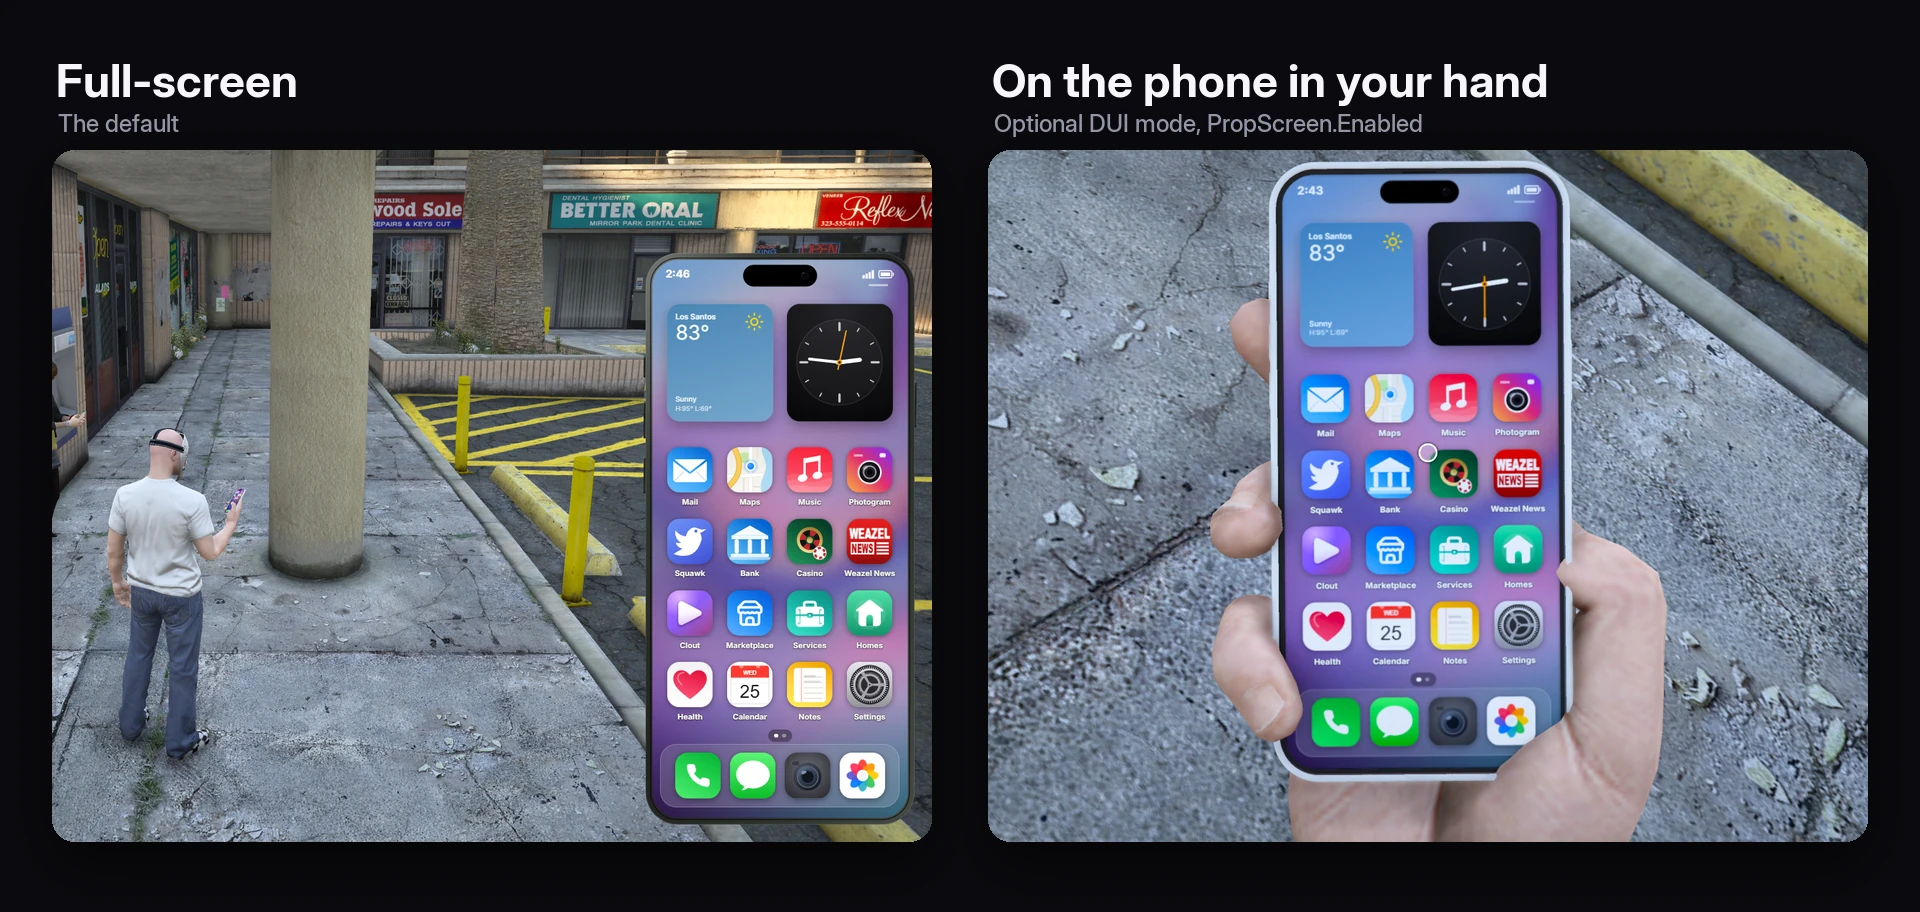
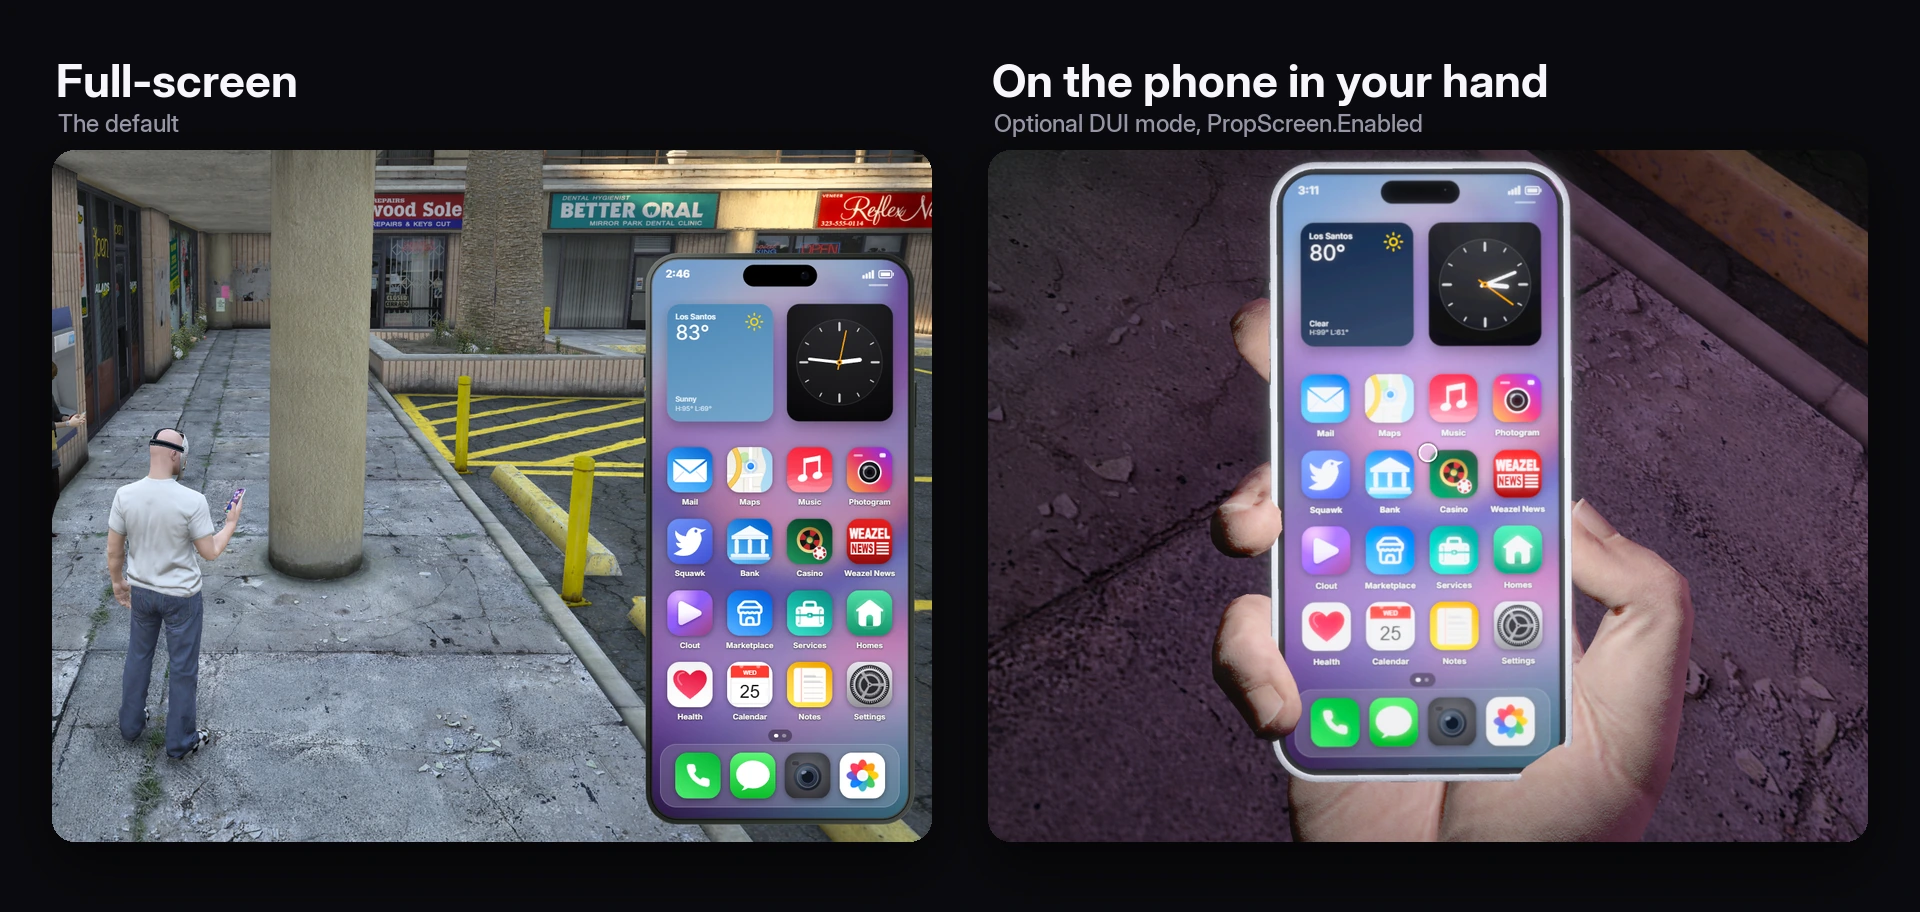
docs: describe the DUI option as it ships and retake its in-game picture

diff --git a/README.md b/README.md
@@ -244,10 +244,11 @@ The inventory has to be able to keep data on a single item, which every inventor
 
 ### DUI phone option (UI on the held prop)
 
-Optional and **off by default**. With `PropScreen.Enabled = true` in `configs/phone.lua`, the phone UI is drawn on the screen of the phone prop in the player's hand instead of the full-screen overlay: the live UI runs in a DUI whose image replaces the prop's screen texture, a close-up camera eases in on the phone, and the mouse cursor is mapped onto the tilted screen.
+Optional and **off by default**. With `PropScreen.Enabled = true` in `configs/phone.lua`, the phone UI is drawn on the screen of the phone in the player's hand instead of the full-screen overlay: the live UI runs in a DUI whose image replaces the prop's screen texture, a close-up camera eases in on the phone, and the mouse becomes a finger on the screen.
 
-- **Enable:** set `PropScreen.Enabled = true` and stream the prop art below. Model, texture dictionary, texture name, DUI resolution, screen rectangle, camera and foldable behaviour are all in the `PropScreen` block. No UI rebuild is needed: `web/dui/phone.html` boots the normal `web/build` bundle.
-- **Art required:** a phone model (default `sd_phone_dui`) whose screen is its own material using a texture (default `sd_phone_screen`) from a **standalone** streamed `.ytd` (default `sd_phone_dui`) that the model's `.ytyp` archetype names as its texture dictionary. `AddReplaceTexture` cannot swap a texture embedded in the `.ydr`, which is how `sd-phone-props` ships, so its models cannot be used as they are. If the model or `.ytd` is missing, a warning is printed in F8 once and the phone stays full-screen.
-- **Controls:** left click taps, the wheel scrolls, right click or Backspace goes back, Enter unlocks, ESC puts the phone away. Text fields open the game's on-screen keyboard, because a DUI cannot receive key presses.
+- **Enable:** set `PropScreen.Enabled = true`. [sd-phone-props](https://github.com/Samuels-Development/sd-phone-props) streams everything it needs: a live-screen model for every colour, design and logo, and the `sd_phone_dui` texture dictionary whose screen texture is swapped. No UI rebuild is needed: `web/dui/phone.html` boots the normal `web/build` bundle. If the models are missing, a warning is printed in F8 once and the phone stays full-screen.
+- **Controls:** left click taps, the wheel scrolls, right click or Backspace goes back, Enter unlocks, ESC puts the phone away. Tap a text field and type straight onto the screen; tap anywhere else or press Escape to stop typing.
+- **Camera and hold:** the camera follows the phone but keeps its own heading, so the world behind it stands still while the hand moves (`CamSteady`). The phone is held in a grip made for this view (`stream/sd_phone@hold.ycd`), the thumb along the edge rather than across the glass. `CamDistance`, `CamFov`, `CamRise`, `HoldAnim`, `HandOffset` and `HandRot` adjust both.
+- **Screen:** the picture is corrected for the game's tone mapping so it does not look washed out, dims after dark (`Brightness`), and is drawn at the size the phone has on each player's monitor so small text stays sharp (`AutoResolution`).
 - **Falls back to full-screen:** in a vehicle, for the Camera app and video calls (the phone reopens full-screen; tap the app again), and when a foldable is unfolded (unless `PropScreen.Foldable = true`, which letterboxes the wide UI onto the portrait screen).
-- **Known limits:** on foot only; one held model for every frame colour (other players still see the normal coloured prop); the DUI runs a second copy of the UI that mirrors every push, so it costs extra memory/CPU while enabled (sound in the copy is muted except while it is on the prop); no live typing; the stock reading grip's thumb can cover the lower corner of the screen.
+- **Known limits:** on foot only; the DUI runs a second copy of the UI that mirrors every push, so it costs extra memory and CPU while enabled (sound in the copy is muted except while it is on the prop); the hand still drifts a few millimetres with the character's idle stance.
